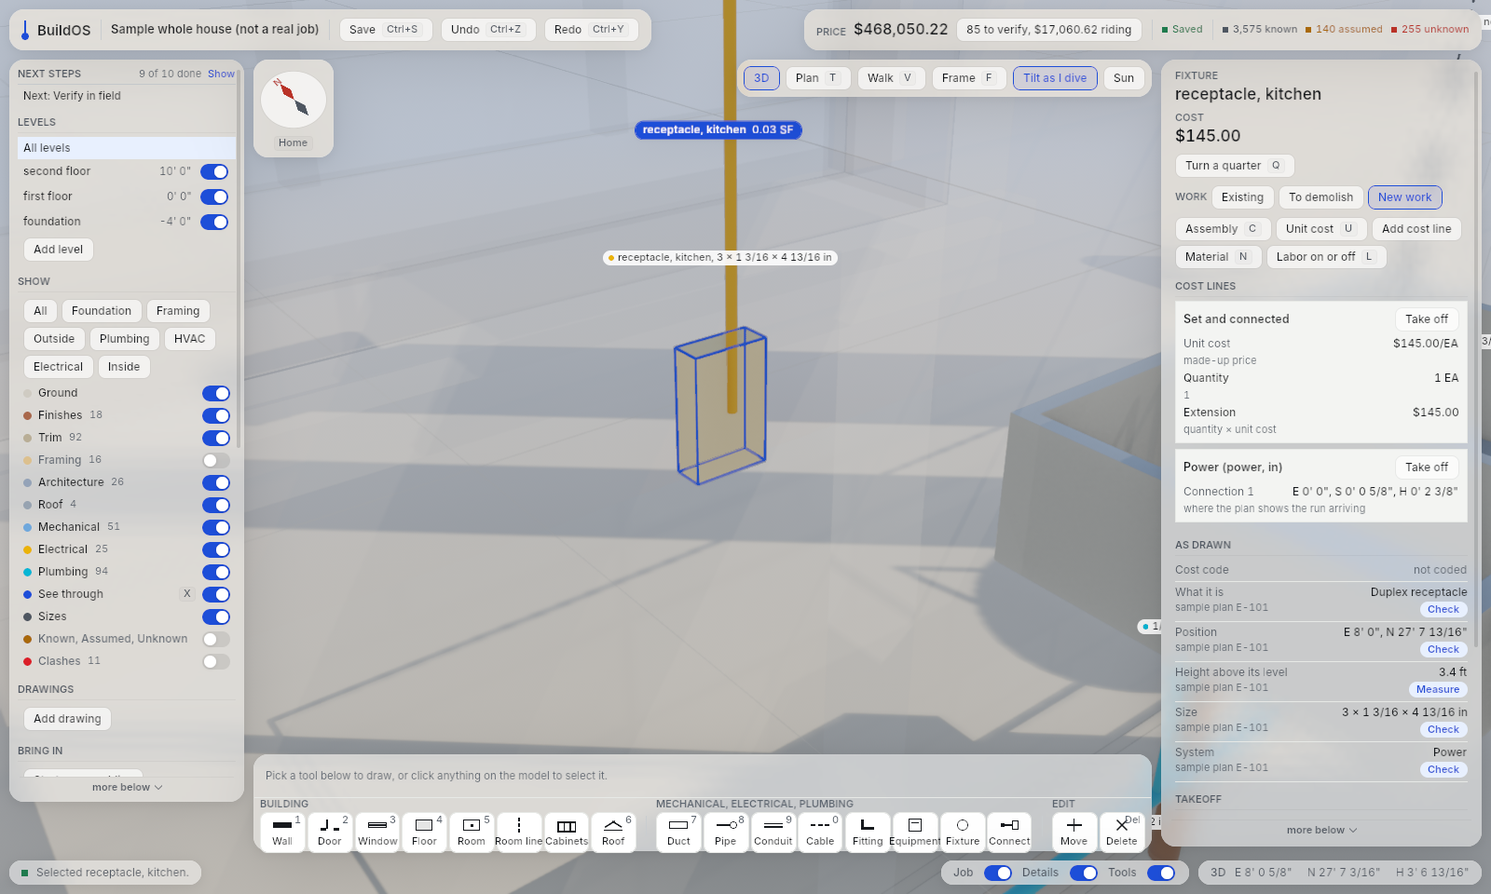
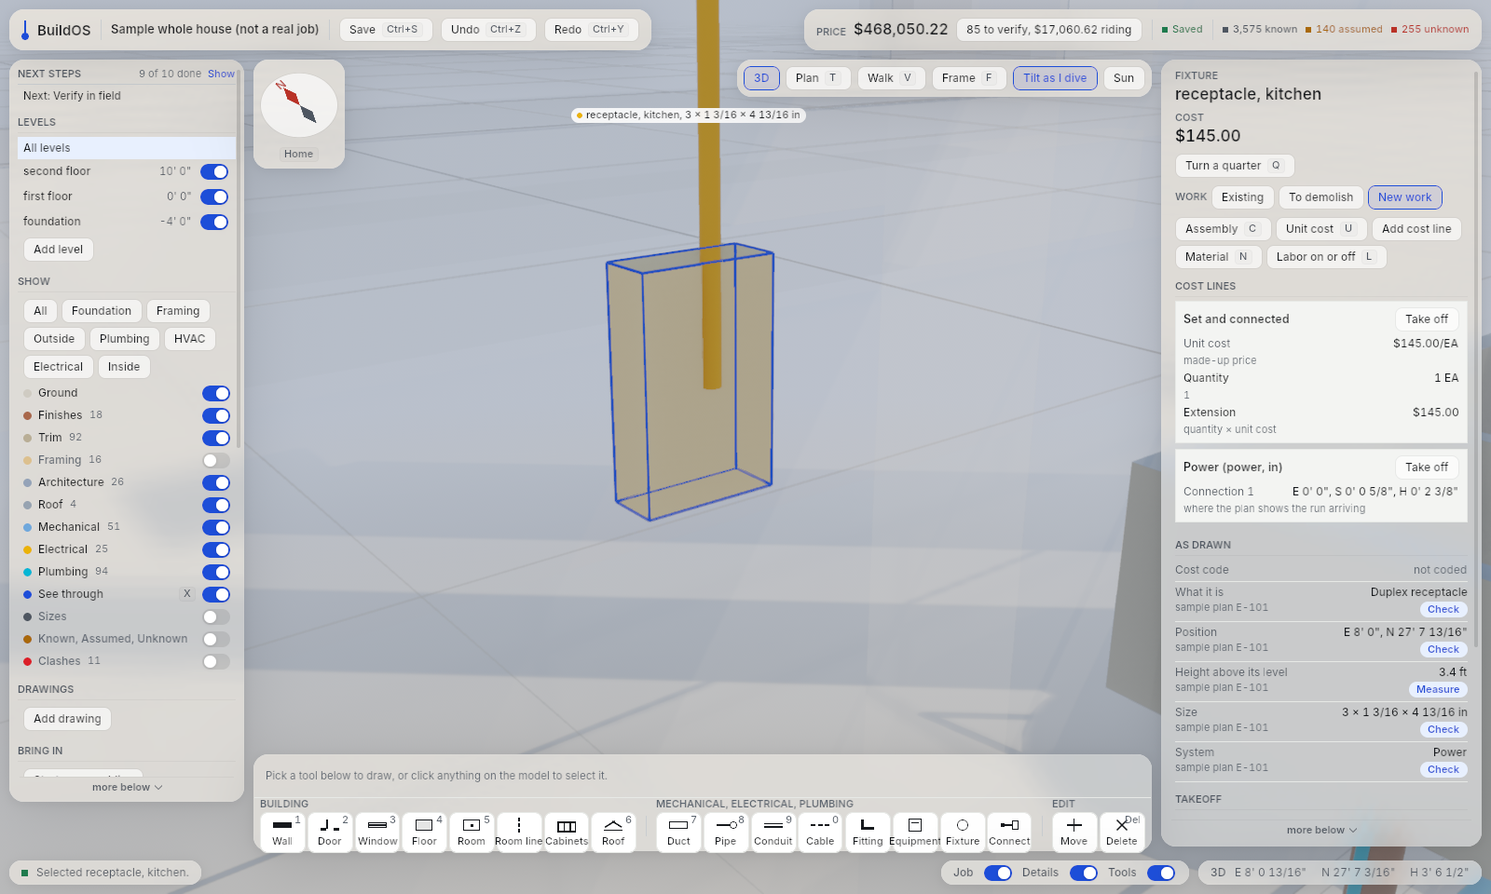
How the window moves (call 218), second round: a house on its lot at the far end, the name and size shown without a switch, a north arrow that can be read
The wheel now goes out to three times the distance the job is framed at,
so the house is a tenth to a fifth of the window's width at the farthest,
on ground lines that fade outward under a soft sky. The thing selected,
or filling the middle of the view, shows its name and size with no layer
on. The north arrow is 84 dots across with N at its point, and its
double-click (straight down) now works: its state was kept on a card that
is redrawn on every click. 69 window tests. Pictures from the builder's
frozen build; not yet merged with the pushed head or checked from the
commit.

Claude-Session: https://claude.ai/code/session_01PMY5GR1pyFiKe392HD99bv

diff --git a/plumbline/crates/app/src/panels.rs b/plumbline/crates/app/src/panels.rs
@@ -45,6 +45,10 @@ pub struct Detail {
     pub feet: f32,
     /// The name of what is selected is kept in the clear part of the window while the thing is big on the screen.
     pub keep_in_view: bool,
+    /// Written because the Sizes layer is on; off, only the selected thing and the one filling the middle are named.
+    pub layer: bool,
+    /// Half the thing's height, from its top to its middle.
+    pub drop: f32,
 }
 
 /// The north arrow's needle (turns with the view) and its disc (leans with the tilt) (call 218, point 7).
@@ -465,21 +469,22 @@ fn north_card(p: &mut ChildSpawnerCommands, fonts: &Fonts, doc: &Doc) {
     node.border_radius = BorderRadius::all(px(44.0));
     p.spawn(docked(node)).with_children(|card| {
         let mut disc = card.spawn((
-            Node { width: px(72.0), height: px(72.0), border: UiRect::all(px(1.5)), border_radius: BorderRadius::all(px(36.0)), align_items: AlignItems::Center, justify_content: JustifyContent::Center, ..default() },
+            Node { width: px(84.0), height: px(84.0), border: UiRect::all(px(1.5)), border_radius: BorderRadius::all(px(42.0)), align_items: AlignItems::Center, justify_content: JustifyContent::Center, ..default() },
             BackgroundColor(theme::control()),
             BorderColor::all(theme::control_edge()),
             UiTransform::default(),
             NorthDisc,
             named("North arrow"),
         ));
-        disc.observe(|press: On<PointerClick>, mut doc: ResMut<Doc>, mut orbit: ResMut<crate::scene::Orbit>, time: Res<Time<Real>>, mut last: Local<f32>| {
+        disc.observe(|press: On<PointerClick>, mut doc: ResMut<Doc>, mut orbit: ResMut<crate::scene::Orbit>, time: Res<Time<Real>>| {
             if press.button != PointerButton::Primary || doc.plan {
                 return;
             }
             let now = time.elapsed_secs();
             // As the double-click on the model is told: within half a second, or within a frame and a half where frames are slower.
-            let twice = now - *last < (time.delta_secs() * 1.5).max(0.5);
-            *last = now;
+            // (Kept in the view's own state: the panels are drawn again after a click, and a note kept in the arrow would be lost.)
+            let twice = now - orbit.arrow_click < (time.delta_secs() * 1.5).max(0.5);
+            orbit.arrow_click = now;
             let mut to = orbit.pose();
             to.yaw += crate::nav::turn_between(to.yaw, 0.0);
             if twice {
@@ -490,18 +495,18 @@ fn north_card(p: &mut ChildSpawnerCommands, fonts: &Fonts, doc: &Doc) {
             doc.touch();
         });
         disc.with_children(|d| {
-            // 69 dots across inside the edge, its middle at 34.5.
-            d.spawn((Node { position_type: PositionType::Absolute, width: px(69.0), height: px(69.0), ..default() }, UiTransform::default(), NorthRotor, Pickable::IGNORE)).with_children(|r| {
+            // 81 dots across inside the edge, its middle at 40.5.
+            d.spawn((Node { position_type: PositionType::Absolute, width: px(81.0), height: px(81.0), ..default() }, UiTransform::default(), NorthRotor, Pickable::IGNORE)).with_children(|r| {
                 // The letter beyond the red end, then the two halves of the needle, each a diamond: a square turned a corner up and drawn long.
-                r.spawn((Node { position_type: PositionType::Absolute, top: px(0.0), left: px(0.0), width: px(69.0), justify_content: JustifyContent::Center, ..default() }, Pickable::IGNORE))
-                    .with_child((text(fonts, "N", 9.5, Weight::Semibold, theme::red()), Pickable::IGNORE));
+                r.spawn((Node { position_type: PositionType::Absolute, top: px(0.0), left: px(0.0), width: px(81.0), justify_content: JustifyContent::Center, ..default() }, Pickable::IGNORE))
+                    .with_child((text(fonts, "N", 13.0, Weight::Semibold, theme::red()), Pickable::IGNORE));
                 for (up, colour) in [(-1.0_f32, theme::red()), (1.0_f32, theme::ink_soft())] {
                     r.spawn((
-                        Node { position_type: PositionType::Absolute, left: px(34.5 - 6.0), top: px(34.5 - 6.0 + up * 12.7), width: px(12.0), height: px(12.0), ..default() },
+                        Node { position_type: PositionType::Absolute, left: px(40.5 - 7.0), top: px(40.5 - 7.0 + up * 14.8), width: px(14.0), height: px(14.0), ..default() },
                         UiTransform { scale: Vec2::new(0.6, 1.5), ..default() },
                         Pickable::IGNORE,
                     ))
-                    .with_child((Node { width: px(12.0), height: px(12.0), ..default() }, BackgroundColor(colour), UiTransform { rotation: Rot2::degrees(45.0), ..default() }, Pickable::IGNORE));
+                    .with_child((Node { width: px(14.0), height: px(14.0), ..default() }, BackgroundColor(colour), UiTransform { rotation: Rot2::degrees(45.0), ..default() }, Pickable::IGNORE));
                 }
             });
         });
@@ -1937,7 +1942,7 @@ fn pill_sized(p: &mut ChildSpawnerCommands, label: Label, feet: f32, selected: b
         label,
     ));
     if feet > 0.0 {
-        e.insert(Detail { feet, keep_in_view: false });
+        e.insert(Detail { feet, keep_in_view: false, layer: true, drop: 0.0 });
     }
     e.with_children(build);
 }
@@ -2089,7 +2094,10 @@ fn see_in(doc: &Doc) -> bool {
 /// wears it, and a tag that would cover a nearer one is not drawn (`place_labels`).
 fn size_tags(o: &mut ChildSpawnerCommands, fonts: &Fonts, doc: &Doc, snap: &Snapshot) {
     use plumbline_world::building::Placement;
-    if !doc.show.sizes || doc.plan || doc.walk || !see_in(doc) {
+    // The Sizes layer tags every run and thing; with it off the name and size of a placed thing are still written over the one that
+    // is selected and the one that fills the middle of the view (`place_labels` decides which, by size on screen; call 218, round 2).
+    let layer = doc.show.sizes;
+    if doc.plan || doc.walk || !see_in(doc) {
         return;
     }
     let shown: Vec<&Placement> = snap.drawn.iter().filter(|p| on_show(doc, p)).filter(|p| !(snap.work.get(&p.path) == Some(&plumbline_world::WorkStatus::Demolish) && !doc.show.demolition)).collect();
@@ -2139,11 +2147,11 @@ fn size_tags(o: &mut ChildSpawnerCommands, fonts: &Fonts, doc: &Doc, snap: &Snap
             *best = (length, i);
         }
     }
-    let mut tags: Vec<(String, Vec3, Color, f32, bool)> = Vec::new();
+    let mut tags: Vec<(String, Vec3, Color, f32, bool, Option<f32>)> = Vec::new();
     for (g, (_, i)) in &longest {
         let _ = g;
         let (_, p, [a, b]) = &runs[*i];
-        tags.push((p.tag.clone().unwrap_or_default(), (*a + *b) / 2.0, theme::system_colour(snap.classification(p.system.as_ref())), a.distance(*b), false));
+        tags.push((p.tag.clone().unwrap_or_default(), (*a + *b) / 2.0, theme::system_colour(snap.classification(p.system.as_ref())), a.distance(*b), false, None));
     }
     // A foundation wall is a wall below the ground or one that is cast; no other wall wears one.
     let below = |p: &Placement| p.storey.as_ref().and_then(|st| snap.storeys.iter().find(|x| &x.path == st)).and_then(|x| x.elevation).is_some_and(|e| e < -0.5);
@@ -2151,7 +2159,7 @@ fn size_tags(o: &mut ChildSpawnerCommands, fonts: &Fonts, doc: &Doc, snap: &Snap
         let Some(tag) = &p.tag else {
             if matches!(p.kind, Kind::Equipment | Kind::Fixture) && p.discipline != Discipline::Architecture {
                 if let Shape::Box { at, size, .. } = &p.shape {
-                    tags.push((format!("{}, {}", p.name, units::size_said(*size)), to_view(doc.origin, [at[0], at[1], at[2] + size[2]]), theme::system_colour(snap.classification(p.system.as_ref())), size[0].max(size[1]).max(size[2]) as f32, doc.selected.as_deref() == Some(p.path.as_str())));
+                    tags.push((format!("{}, {}", p.name, units::size_said(*size)), to_view(doc.origin, [at[0], at[1], at[2] + size[2]]), theme::system_colour(snap.classification(p.system.as_ref())), size[0].max(size[1]).max(size[2]) as f32, doc.selected.as_deref() == Some(p.path.as_str()), Some(size[2] as f32 / 2.0)));
                 }
             }
             continue;
@@ -2163,26 +2171,29 @@ fn size_tags(o: &mut ChildSpawnerCommands, fonts: &Fonts, doc: &Doc, snap: &Snap
         match (&p.shape, p.kind) {
             (_, Kind::Footing | Kind::PadFooting | Kind::Wall) if !under => {}
             (_, Kind::Beam | Kind::Post) if !frame => {}
-            (Shape::Wall { a, b, base, height, .. }, Kind::Footing) => tags.push((tag.clone(), to_view(doc.origin, [(a[0] + b[0]) / 2.0, (a[1] + b[1]) / 2.0, base + height / 2.0]), theme::concrete(), (b[0] - a[0]).hypot(b[1] - a[1]) as f32, false)),
+            (Shape::Wall { a, b, base, height, .. }, Kind::Footing) => tags.push((tag.clone(), to_view(doc.origin, [(a[0] + b[0]) / 2.0, (a[1] + b[1]) / 2.0, base + height / 2.0]), theme::concrete(), (b[0] - a[0]).hypot(b[1] - a[1]) as f32, false, None)),
             (Shape::Wall { a, b, base, height, .. }, Kind::Wall) if below(p) || snap.dress.walls.get(&p.path).is_some_and(|d| d.concrete) => {
-                tags.push((tag.clone(), to_view(doc.origin, [(a[0] + b[0]) / 2.0, (a[1] + b[1]) / 2.0, base + height / 2.0]), theme::concrete(), (b[0] - a[0]).hypot(b[1] - a[1]) as f32, false))
+                tags.push((tag.clone(), to_view(doc.origin, [(a[0] + b[0]) / 2.0, (a[1] + b[1]) / 2.0, base + height / 2.0]), theme::concrete(), (b[0] - a[0]).hypot(b[1] - a[1]) as f32, false, None))
             }
-            (Shape::Run { a, b, .. }, Kind::Beam | Kind::Post) => tags.push((tag.clone(), (to_view(doc.origin, *a) + to_view(doc.origin, *b)) / 2.0, theme::lumber(), to_view(doc.origin, *a).distance(to_view(doc.origin, *b)), false)),
-            (Shape::Box { at, size, .. }, Kind::PadFooting) => tags.push((tag.clone(), to_view(doc.origin, [at[0], at[1], at[2] + size[2]]), theme::concrete(), size[0].max(size[1]).max(size[2]) as f32, false)),
+            (Shape::Run { a, b, .. }, Kind::Beam | Kind::Post) => tags.push((tag.clone(), (to_view(doc.origin, *a) + to_view(doc.origin, *b)) / 2.0, theme::lumber(), to_view(doc.origin, *a).distance(to_view(doc.origin, *b)), false, None)),
+            (Shape::Box { at, size, .. }, Kind::PadFooting) => tags.push((tag.clone(), to_view(doc.origin, [at[0], at[1], at[2] + size[2]]), theme::concrete(), size[0].max(size[1]).max(size[2]) as f32, false, None)),
             _ => {}
         }
     }
     // The same words from the same place are one tag.
     tags.sort_by(|x, y| x.0.cmp(&y.0).then(x.1.x.total_cmp(&y.1.x)).then(x.1.z.total_cmp(&y.1.z)).then(x.1.y.total_cmp(&y.1.y)));
     tags.dedup_by(|x, y| x.0 == y.0 && x.1.distance(y.1) < 0.2);
-    for (words, at, colour, feet, chosen) in tags {
+    if !layer {
+        tags.retain(|t| t.5.is_some());
+    }
+    for (words, at, colour, feet, chosen, drop) in tags {
         o.spawn((
             Node { position_type: PositionType::Absolute, left: px(-2000.0), top: px(-2000.0), padding: UiRect::axes(px(6.0), px(1.0)), column_gap: px(4.0), align_items: AlignItems::Center, border_radius: BorderRadius::all(px(8.0)), ..default() },
             UiTransform { translation: Val2::percent(-50.0, -50.0), ..default() },
             BackgroundColor(theme::panel().with_alpha(0.86)),
             Pickable::IGNORE,
             Label { at: at + Vec3::Y * 0.25, facing: None, rank: if chosen { 0 } else { 2 } },
-            Detail { feet, keep_in_view: chosen },
+            Detail { feet, keep_in_view: chosen, layer, drop: drop.unwrap_or(0.0) },
             Named { name: format!("Tag {words}"), scrolls: false },
         ))
         .with_children(|l| {
@@ -3574,7 +3585,16 @@ pub fn place_labels(doc: Res<Doc>, camera: Query<(&Camera, &GlobalTransform), Wi
         // A thing's name is written over it only while it is a fit size on the screen (call 218, point 2). On plan the drawing
         // keeps its words as it always did.
         if let Some(d) = detail.filter(|_| !doc.plan) {
-            if !crate::nav::label_shown(d.feet, eye.translation().distance(label.at), height) {
+            let away = eye.translation().distance(label.at);
+            let shown = if d.layer {
+                crate::nav::label_shown(d.feet, away, height)
+            } else {
+                // No layer on: the selected thing, or the one that fills the middle of the clear part of the window.
+                let middle = Vec2::new((LEFT_W + width - RIGHT_W) / 2.0, (TOP_H + 70.0 + height - BUILD_H - STATUS_H) / 2.0);
+                let centre = camera.world_to_viewport(eye, label.at - Vec3::Y * (0.25 + d.drop)).ok();
+                centre.is_some_and(|c| crate::nav::name_without_layer(d.keep_in_view, crate::nav::dots_across(d.feet, away, height), c.distance(middle), height))
+            };
+            if !shown {
                 continue;
             }
         }
@@ -3585,7 +3605,7 @@ pub fn place_labels(doc: Res<Doc>, camera: Query<(&Camera, &GlobalTransform), Wi
         let Ok(at) = camera.world_to_viewport(eye, label.at) else { continue };
         let half = computed.size * computed.inverse_scale_factor / 2.0 + Vec2::splat(2.0);
         // A thing that fills the window has its name written above it, out of sight: the name is kept in the clear part of the window.
-        let at = match detail.filter(|d| d.keep_in_view && !doc.plan) {
+        let at = match detail.filter(|d| (d.keep_in_view || !d.layer) && !doc.plan) {
             Some(d) => {
                 let dots = crate::nav::dots_across(d.feet, eye.translation().distance(label.at), height);
                 let lo = Vec2::new(LEFT_W + 20.0, TOP_H + 70.0) + half;

diff --git a/plumbline/crates/app/src/nav.rs b/plumbline/crates/app/src/nav.rs
@@ -10,15 +10,16 @@ use bevy::prelude::*;
 pub const NOTCH: f32 = 0.9;
 /// The nearest the eye comes to what it looks at, in feet: 8 in, a hinge or a receptacle fills the window.
 pub const MIN_DISTANCE: f32 = 8.0 / 12.0;
-/// Out the wheel goes at least this far, in feet, whatever the size of the job: the whole lot.
-pub const LOT: f32 = 400.0;
+/// Out the wheel goes this many times the distance the job is framed at (1.6 sizes, so the house is about a sixth of the width): the house is then a tenth to a fifth of the window's width.
+pub const OUT: f32 = 3.0;
 /// Looking nearly straight down, in 3D (a plan is another view).
 pub const STRAIGHT_DOWN: f32 = 1.52;
 
-/// How far out the wheel will go: six times the distance the job is framed at, never under the
-/// lot, never over 6000 ft, and never less than where the eye already is.
+/// How far out the wheel will go: 3 times the distance the job is framed at (that is 1.6 times the building's size, so the
+/// building is 0.17 x (its longer side / its size) of the window's width: a tenth to a fifth, on its ground), never under 40 ft,
+/// never over 6000 ft, and never less than where the eye already is.
 pub fn furthest(home: f32, was: f32) -> f32 {
-    (home * 6.0).clamp(LOT, 6000.0).max(was)
+    (home * OUT).clamp(40.0, 6000.0).max(was)
 }
 
 /// The nearest and the furthest of what is drawn, in feet, for an eye this far from what it
@@ -131,6 +132,13 @@ pub fn pull_in(at: Vec2, dots: f32, lo: Vec2, hi: Vec2) -> Vec2 {
     }
 }
 
+/// Whether the name and size of a placed thing are written over it with no layer switched on (call 218, round 2): the thing that is
+/// selected, or the one that fills the middle of the view. `dots` is its size on the screen, `off_middle` how far its middle is from the
+/// middle of the clear part of the window, `height` the window's height, both in dots. Everything else waits for the Sizes layer.
+pub fn name_without_layer(selected: bool, dots: f32, off_middle: f32, height: f32) -> bool {
+    dots >= 48.0 && dots <= 1.5 * height && (selected || (dots >= 0.25 * height && off_middle <= 0.2 * height))
+}
+
 /// How big a thing of `feet` looks, in dots.
 pub fn dots_across(feet: f32, away: f32, height: f32) -> f32 {
     feet * height / (2.0 * away.max(0.01) * (crate::scene::LENS / 2.0).tan())
@@ -175,16 +183,45 @@ mod tests {
     fn the_wheel_runs_from_the_whole_lot_to_a_hinge() {
         // The nearest is eight inches, the furthest is never under the lot, and a big job goes further, to 6000 ft.
         assert_eq!(MIN_DISTANCE, 8.0 / 12.0);
-        assert_eq!(furthest(60.0, 60.0), 400.0);
-        assert_eq!(furthest(70.0, 70.0), 420.0);
+        assert_eq!(furthest(10.0, 10.0), 40.0);
         assert_eq!(furthest(5000.0, 5000.0), 6000.0);
         // Where the eye already is, it is not pulled in by a limit.
         assert_eq!(furthest(60.0, 900.0), 900.0);
         // A tenth of what is left each notch: from the lot to eight inches is about sixty notches.
         let n = notches_between(400.0, 8.0 / 12.0);
         assert!((59..=62).contains(&n), "{n} notches");
+        // From the farthest of the made-up house (92.8 ft framed, 2.5 times that out): about 55.
+        assert!((56..=60).contains(&notches_between(278.0, 8.0 / 12.0)));
         // 0.9 to the 60th of 400 ft is 0.72 ft, the lead's own working.
         assert!((400.0 * NOTCH.powi(60) - 0.7).abs() < 0.1);
+    }
+
+    #[test]
+    fn at_the_farthest_the_house_is_a_tenth_to_a_fifth_of_the_windows_width_whatever_its_shape() {
+        // The view is framed at 1.6 times the building's size (plan diagonal and height): `scene.rs`, where `home` is set.
+        for (w, d, h) in [(24.0_f32, 16.0, 17.0), (42.0, 30.0, 25.0), (120.0, 40.0, 30.0), (60.0, 60.0, 12.0)] {
+            let size = (w * w + d * d + h * h).sqrt();
+            let home = size * 1.6;
+            let far = furthest(home, home);
+            let across = 2.0 * far * (crate::scene::LENS / 2.0).tan() * (1600.0 / 960.0);
+            let fraction = w.max(d) / across;
+            assert!((0.1..=0.2).contains(&fraction), "{w} x {d} x {h}: {fraction} of the width at {far} ft");
+        }
+        // And never pulled in by a limit below where it is.
+        assert_eq!(furthest(60.0, 900.0), 900.0);
+    }
+
+    #[test]
+    fn the_name_and_size_of_what_is_selected_or_fills_the_middle_need_no_layer() {
+        let window = 960.0;
+        // Selected and big enough: named. Selected and a speck: not.
+        assert!(name_without_layer(true, 120.0, 400.0, window));
+        assert!(!name_without_layer(true, 10.0, 0.0, window));
+        // Not selected, filling the middle: named.
+        assert!(name_without_layer(false, 300.0, 40.0, window));
+        // Not selected, in a corner or small: left to the Sizes layer.
+        assert!(!name_without_layer(false, 300.0, 600.0, window));
+        assert!(!name_without_layer(false, 60.0, 0.0, window));
     }
 
     #[test]

diff --git a/plumbline/crates/app/src/scene.rs b/plumbline/crates/app/src/scene.rs
@@ -114,6 +114,8 @@ pub struct Orbit {
     pub wish: f32,
     /// A flight in the air: the view is carried from one pose to another and a hand takes it over (point 6).
     pub flight: Option<crate::nav::Flight>,
+    /// When the north arrow was last clicked (real seconds), for telling a double-click.
+    pub arrow_click: f32,
 }
 
 pub const HOME_YAW: f32 = -0.66;
@@ -121,7 +123,7 @@ pub const HOME_PITCH: f32 = 0.27;
 
 impl Orbit {
     pub fn new() -> Orbit {
-        Orbit { target: Vec3::ZERO, yaw: HOME_YAW, pitch: HOME_PITCH, distance: 120.0, now: (Vec3::ZERO, HOME_YAW, HOME_PITCH, 120.0), home: (Vec3::ZERO, 120.0), wish: HOME_PITCH, flight: None }
+        Orbit { target: Vec3::ZERO, yaw: HOME_YAW, pitch: HOME_PITCH, distance: 120.0, now: (Vec3::ZERO, HOME_YAW, HOME_PITCH, 120.0), home: (Vec3::ZERO, 120.0), wish: HOME_PITCH, flight: None, arrow_click: -10.0 }
     }
     /// Where the view is going, as a pose.
     pub fn pose(&self) -> crate::nav::Pose {
@@ -324,7 +326,7 @@ pub fn setup(mut commands: Commands, mut store: ResMut<GizmoConfigStore>, mut me
     broken.depth_bias = -0.004;
     broken.render_layers = RenderLayers::layer(0);
     let (grid, _) = store.config_mut::<GridLines>();
-    grid.line.width = 1.0;
+    grid.line.width = 1.6;
     grid.render_layers = RenderLayers::layer(0);
     // A room line is not a wall and not a run: dashed, in dark blue, in front of whatever
     // it lies on (it was lost over the pink of a demolished wall).
@@ -665,7 +667,7 @@ pub fn rebuild(
                 Some(before) => orbit.now.0 += to_view(origin, before),
             }
             *framed_about = Some(origin);
-            drawing.reach = (whole * 2.4 / 10.0).ceil() * 10.0;
+            drawing.reach = (whole * 4.0 / 10.0).ceil() * 10.0;
             for e in &ground {
                 commands.entity(e).despawn();
             }
@@ -3047,7 +3049,7 @@ mod move_tests {
         for _ in 0..70 {
             notch(&mut o, place, 1.0, true);
         }
-        while o.distance < 400.0 {
+        while o.distance < 299.0 {
             notch(&mut o, place, -1.0, true);
             assert!(dots_off(&o, &w, cursor, place) < 3.0);
         }

diff --git a/plumbline/crates/app/src/map.rs b/plumbline/crates/app/src/map.rs
@@ -303,7 +303,8 @@ pub fn write(
     // The north arrow: how far its needle is turned (degrees clockwise from up) and how flat the disc lies (call 218, point 7).
     {
         let a = crate::nav::north_arrow(orbit.now.1, orbit.now.2);
-        out.push_str(&format!("arrow\t{:.1}\t{:.2}\n", a.needle.to_degrees().rem_euclid(360.0), a.flat));
+        let across = named.iter().find(|(n, _, _, _, v, _)| n.name == "North arrow" && v.get()).map(|(_, node, ..)| node.size.x * node.inverse_scale_factor).unwrap_or(0.0);
+        out.push_str(&format!("arrow\t{:.1}\t{:.2}\t{:.0}\n", a.needle.to_degrees().rem_euclid(360.0), a.flat, across));
     }
     // The selected thing as it lies on the screen: its name, the middle of its box, and its width and height in dots
     // (call 218, point 10): a demonstration follows a receptacle or a door down a dive by it.

diff --git a/plumbline/research/worker-report-call218W.md b/plumbline/research/worker-report-call218W.md
@@ -26,3 +26,10 @@
 - Frame rate on this renderer is about 1.3 a second; PLUMBLINE_FRAME=<s> (new, read at start) caps how much program time a frame counts for (default 0.25 s, the engine's). Dive sessions use 1.0 so an ease settles in two frames; flights use 0.03 so a flight is 15 to 40 frames.
 - Sessions b, c, d, e, f, g each passed on f29..f31 (individually); fixes found by running them: (1) `Orbit::fly` set the goals to the end at once, so the first frame of a flight ran a quarter of the way and the flight then took it back (found by the speed curve peaking at frame 0 and by a flight taken over "moving back"): goals now stay put until the flight carries them; (2) a letter held for more than the keyboard's repeat is read as a laser's reading (the window's own rule), so the demonstration strikes keys; (3) the arrow's double-click counted real time and missed on a slow frame: now the model's own rule (half a second or a frame and a half); (4) the needle turned the wrong way (found in the picture, red end to the upper right when north was to the upper left); (5) the pan check used the SW corner under the build bar: now the SE corner.
 - FINAL navw on frozen f34, each session run alone (a, b, c, d, e, f, g), then the whole check over all of them: PASS. Figures: out 557 ft, house 25 dots wide at the lot; dive worst 1.35 dots (a), 1.20 (b, tilt off), 2.17 (c, three notches a look); tilt 60.2 -> 10.0, 0 frames back on itself; tilt off 60.2 -> 60.2; rises back to 60.2; pan corner 0.5 dots off the pointer after 300 dots, flick carried 87.5 dots; right button vs Shift+left turn 60.00 / -12.03 degrees each; ring of 340+ blue dots round the pivot in both turns; flight 0.81 s in 28 frames, speed peak at frame 8 of 27, door 0.44 of 960; taken over after 8 frames, no frame back; F with door 0.47, F with nothing back to 92.8 ft / -37.8; arrow needle = view turn (81.9), click north-up 0.00, double-click 87.1 degrees; Page Down 17 frames, Page Up back to 0.0000 ft; T 41 and 55 frames, no jump; in on the wall ends 0.667 ft off, outside (eye 14.67 ft south of a wall face at 14.25), in on ground eye 0.16 ft up.
+
+## Round 2
+1 far view: wheel out = 3 x the framed distance (framed = 1.6 x building size, so the house is 0.17 x longer side/size of the width, a tenth to a fifth for any plan shape; floor 40 ft). House 280 dots of 1600 at 278 ft, solid, on a ground grid (reach 4 x size, lines 1.6 wide) fading outward, soft sky at the top. Test written first, red (3 failed), then green. 25 clicks to the end (about 58 notches).
+2 name and size of selected / middle-filling thing need no layer (nav::name_without_layer, tested red then green).
+3 arrow 84 dots, N at its point, left edge at 279 (panel edge 262). Found: its double-click note was kept in the arrow and lost when panels redrew; now kept in Orbit.
+4 Page order is older (stops = All, then snap.storeys order); my change only added the glide. Left alone.
+Tests 69 pass in plumbline-app. Frozen build f37 (f34/f35/f36 deleted). navw a, f pass; glassw same figures (1.90x, 167 vs 94). Gates pass.
